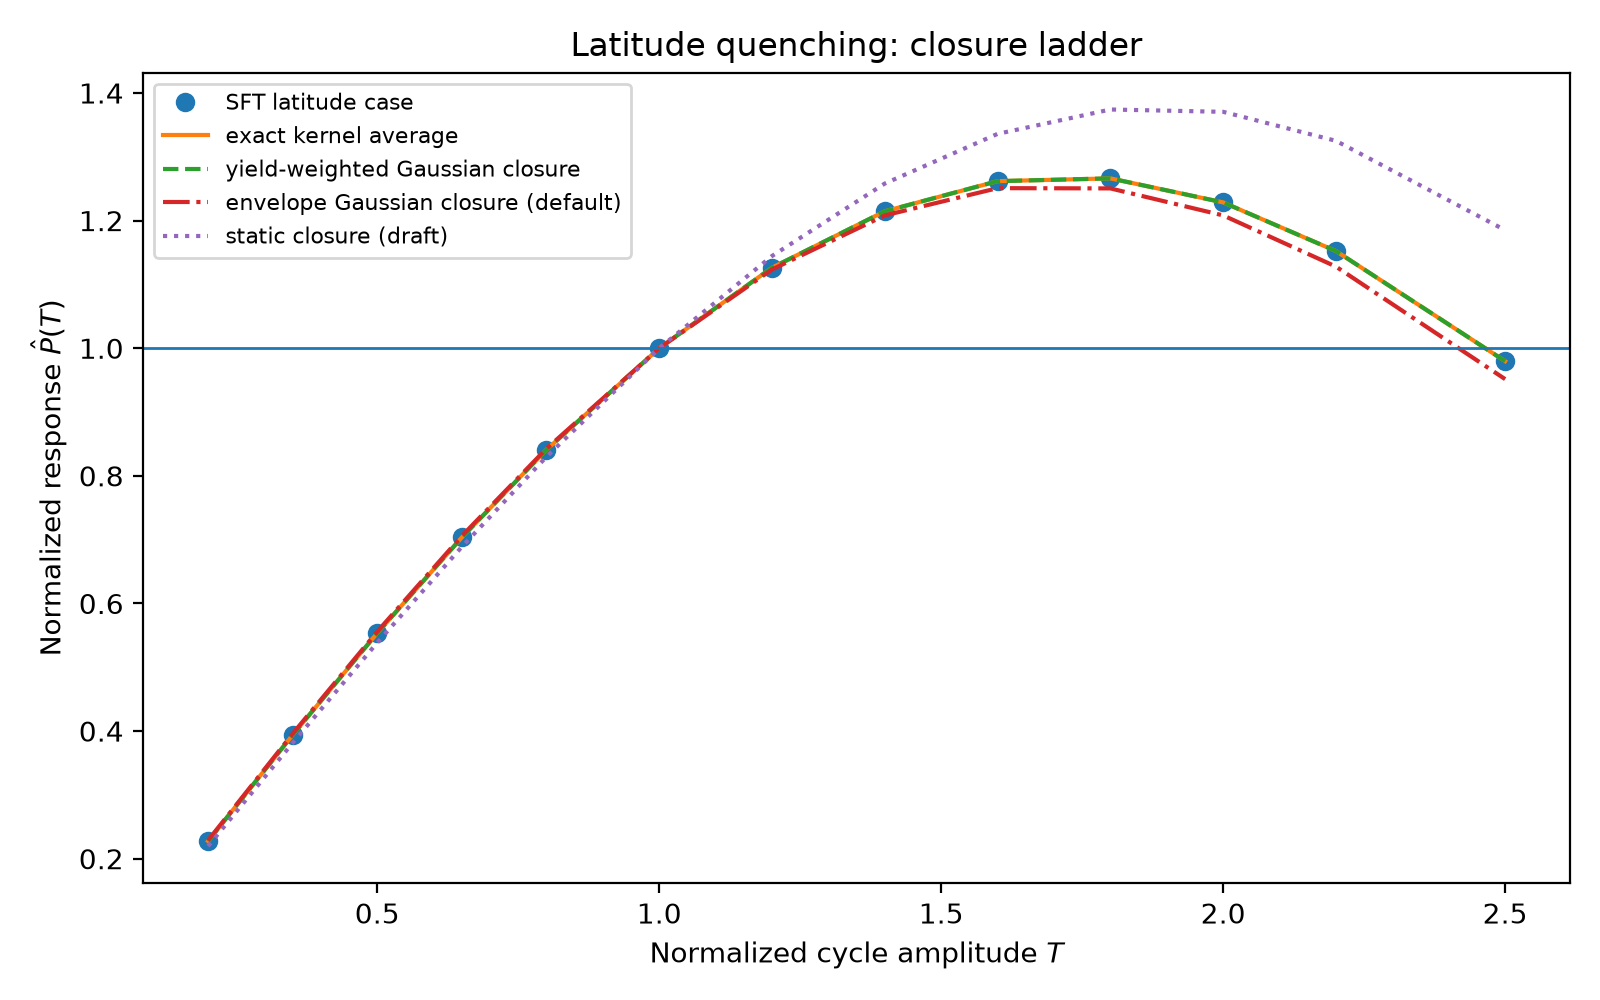
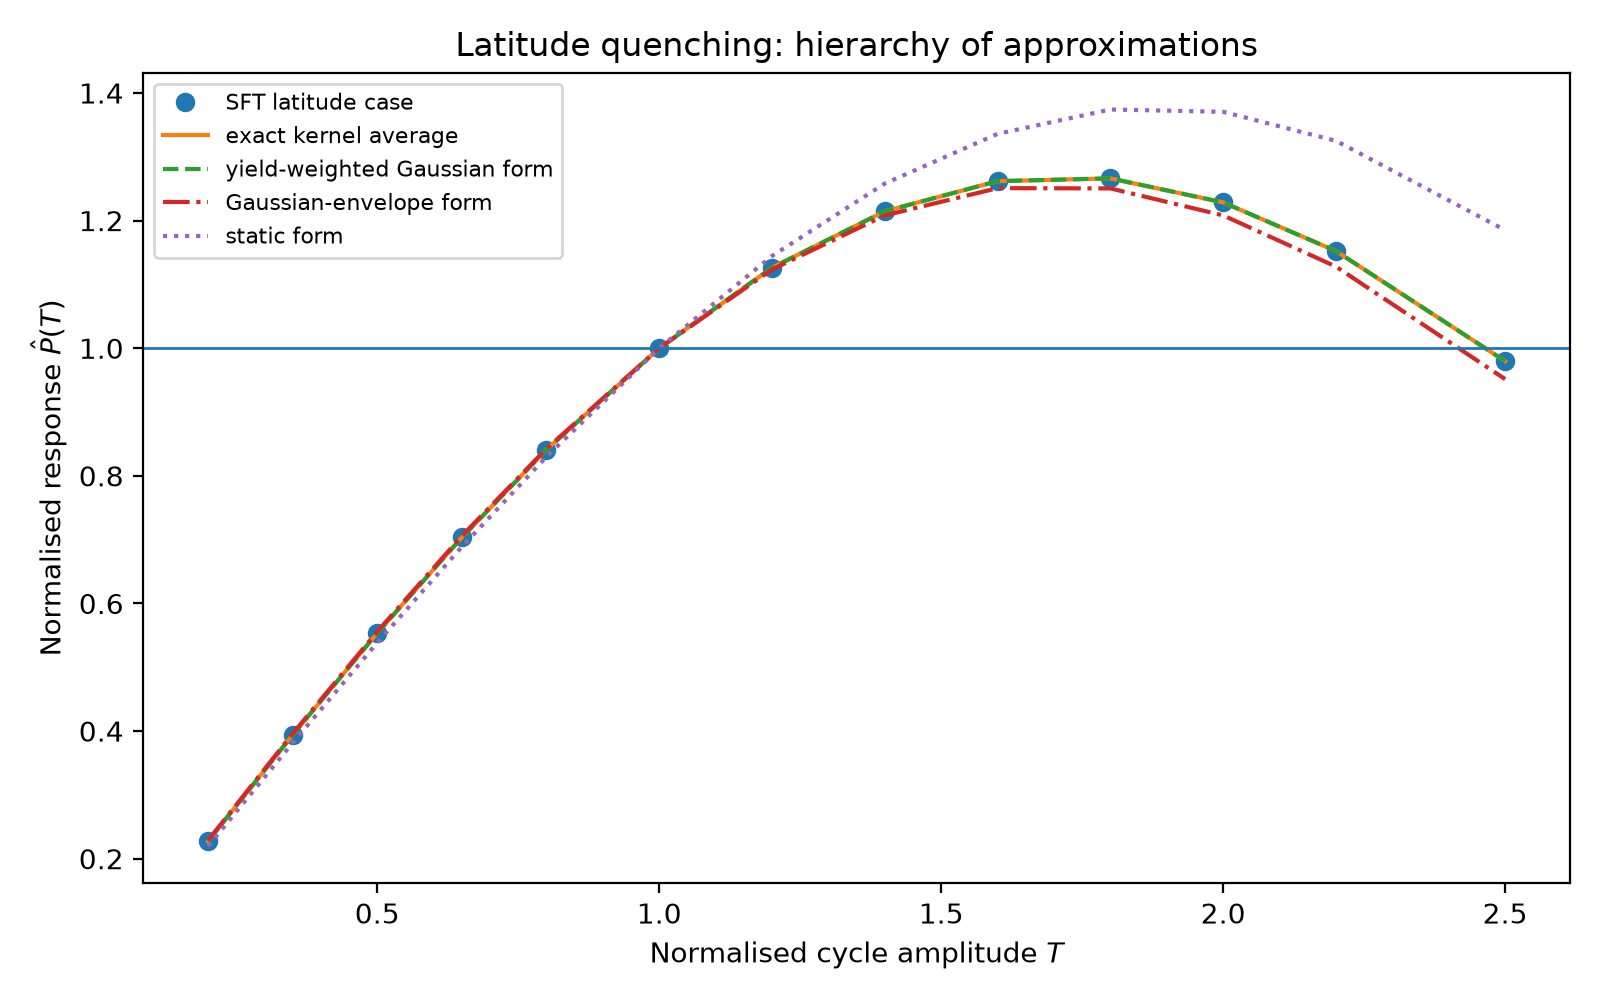
Make figure text consistent with the manuscript
An audit of the eight figures reproduced in the paper found the plotted text
lagging behind the prose in several ways.

Spelling. Nineteen axis labels and titles read "Normalized" while the paper
uses British English throughout. All display strings are now "Normalised".
The public function theory_normalized and the two output filenames keep the
original spelling: they are identifiers, not reader-visible prose, and
renaming them would break the test suite and the manuscript's figure paths.

Terminology. The word "closure" was removed from the manuscript text but
still appeared six times inside Figures 4 and 5, contradicting their own
captions. The ladder legend also carried the development artefacts "(draft)"
and "(default)", which mean nothing to a reader. Legends now read
"yield-weighted Gaussian form", "Gaussian-envelope form" and "static form",
matching the caption word for word.

Notation. Figures 5 and 8 used a bare lambda_R for both effectivity ranges,
although the paper is careful to separate the derived lambda_R^pair from the
prescribed lambda_R^cl. Both figures now carry the superscripts. Figure 8's
horizontal axis is labelled with the transport scale lambda_tr that its
caption names, instead of spelling out the square root, and the legend now
uses lambda_tr consistently rather than mixing R and R_odot.

Two smaller items: Figure 7's legend spelled "PD", an abbreviation the paper
never defines, and now reads "period doubling"; and Figure 1's ordinate is
[…]

Changed region(s): [[0.2812, 0.031, 0.7812, 0.062], [0.125, 0.155, 0.4062, 0.248]]

diff --git a/nonlinear_response_sft_experiment.py b/nonlinear_response_sft_experiment.py
@@ -40,7 +40,7 @@ This version implements the corrections suggested after the first run:
 1. The main response variable is the signed axial dipole D(T); its magnitude
    is retained only as a secondary diagnostic.
 
-2. All main response plots include normalized curves:
+2. All main response plots include normalised curves:
 
        P_hat(T) = P(T) / P(T_ref)
 
@@ -139,7 +139,7 @@ class SFTParams:
     # BMR-pair latitudinal separation proxy [deg]
     polarity_sep_deg: float = 5.0
 
-    # Source normalization. Arbitrary because this is a normalized experiment.
+    # Source normalization. Arbitrary because this is a normalised experiment.
     source_amp: float = 1.0
 
     # Nonlinear parameters for the reference run.
@@ -163,7 +163,7 @@ class SFTParams:
     # Polar cap threshold [deg]
     polar_cap_deg: float = 60.0
 
-    # Reference amplitude for normalized plots
+    # Reference amplitude for normalised plots
     T_ref: float = 1.0
 
     # Latitude-quenching implementation.
@@ -626,7 +626,7 @@ def Q_theory(T: np.ndarray | float, p: SFTParams, case: str) -> np.ndarray | flo
 
 
 def theory_normalized(T: np.ndarray, p: SFTParams, case: str) -> np.ndarray:
-    """Normalized theoretical curve T Q(T) / [T_ref Q(T_ref)]."""
+    """Normalised theoretical curve T Q(T) / [T_ref Q(T_ref)]."""
     T = np.asarray(T, dtype=float)
     tref = p.T_ref
     numerator = T * Q_theory(T, p, case)
@@ -839,8 +839,8 @@ def plot_results(results: Dict[str, Dict[str, np.ndarray]], p: SFTParams, outdir
     for case in cases:
         plt.plot(results[case]["T"], results[case]["P"], "o-", label=labels[case])
     plt.axhline(0.0, linewidth=1)
-    plt.xlabel(r"Normalized cycle amplitude $T$")
-    plt.ylabel(r"Final signed axial dipole, $P(T)$")
+    plt.xlabel(r"Normalised cycle amplitude $T$")
+    plt.ylabel(r"Final signed axial dipole, $P(T)$ [arb. units]")
     plt.title(r"Signed axial-dipole response")
     plt.legend(fontsize=8)
     plt.tight_layout()
@@ -851,7 +851,7 @@ def plot_results(results: Dict[str, Dict[str, np.ndarray]], p: SFTParams, outdir
     plt.figure(figsize=(8, 5))
     for case in cases:
         plt.plot(results[case]["T"], results[case]["P_abs"], "o-", label=labels[case])
-    plt.xlabel(r"Normalized cycle amplitude $T$")
+    plt.xlabel(r"Normalised cycle amplitude $T$")
     plt.ylabel(r"Secondary response $|D(T)|$")
     plt.title(r"Unsigned axial-dipole response")
     plt.legend(fontsize=8)
@@ -860,7 +860,7 @@ def plot_results(results: Dict[str, Dict[str, np.ndarray]], p: SFTParams, outdir
     plt.close()
 
     # --------------------------------------------------------
-    # Figure 2: normalized P_hat(T) with normalized theory
+    # Figure 2: normalised P_hat(T) with normalised theory
     # --------------------------------------------------------
     plt.figure(figsize=(8, 5))
     for case in cases:
@@ -868,9 +868,9 @@ def plot_results(results: Dict[str, Dict[str, np.ndarray]], p: SFTParams, outdir
     for case in cases:
         plt.plot(Tfine, theory_normalized(Tfine, p, case), "--", alpha=0.8, label=f"Theory: {labels[case]}")
     plt.axhline(1.0, linewidth=1)
-    plt.xlabel(r"Normalized cycle amplitude $T$")
-    plt.ylabel(r"Normalized response $\hat{P}(T)=P(T)/P(1)$")
-    plt.title(r"Normalized nonlinear response")
+    plt.xlabel(r"Normalised cycle amplitude $T$")
+    plt.ylabel(r"Normalised response $\hat{P}(T)=P(T)/P(1)$")
+    plt.title(r"Normalised nonlinear response")
     plt.legend(fontsize=7, ncol=2)
     plt.tight_layout()
     plt.savefig(os.path.join(outdir, "fig2_normalized_response_vs_theory.png"), dpi=200)
@@ -883,9 +883,9 @@ def plot_results(results: Dict[str, Dict[str, np.ndarray]], p: SFTParams, outdir
     for case in cases:
         plt.plot(results[case]["T"], results[case]["R_hat"], "o-", label=labels[case])
     plt.axhline(0.0, linewidth=1)
-    plt.xlabel(r"Normalized cycle amplitude $T$")
+    plt.xlabel(r"Normalised cycle amplitude $T$")
     plt.ylabel(r"$d\hat{P}/dT$")
-    plt.title(r"Normalized nonlinear response function")
+    plt.title(r"Normalised nonlinear response function")
     plt.legend(fontsize=8)
     plt.tight_layout()
     plt.savefig(os.path.join(outdir, "fig3_normalized_nonlinear_response.png"), dpi=200)
@@ -898,7 +898,7 @@ def plot_results(results: Dict[str, Dict[str, np.ndarray]], p: SFTParams, outdir
     for case in cases:
         plt.plot(results[case]["T"], results[case]["D"], "o-", label=labels[case])
     plt.axhline(0.0, linewidth=1)
-    plt.xlabel(r"Normalized cycle amplitude $T$")
+    plt.xlabel(r"Normalised cycle amplitude $T$")
     plt.ylabel(r"Signed axial dipole $D(T)$")
     plt.title(r"Signed axial dipole response")
     plt.legend(fontsize=8)
@@ -912,7 +912,7 @@ def plot_results(results: Dict[str, Dict[str, np.ndarray]], p: SFTParams, outdir
     plt.figure(figsize=(8, 5))
     for case in cases:
         plt.plot(results[case]["T"], results[case]["P_polar"], "o-", label=labels[case])
-    plt.xlabel(r"Normalized cycle amplitude $T$")
+    plt.xlabel(r"Normalised cycle amplitude $T$")
     plt.ylabel(r"Polar-cap proxy")
     plt.title(r"Polar-cap field response, secondary diagnostic")
     plt.legend(fontsize=8)
@@ -927,7 +927,7 @@ def plot_results(results: Dict[str, Dict[str, np.ndarray]], p: SFTParams, outdir
     for case in cases:
         q = Q_theory(Tfine, p, case)
         plt.plot(Tfine, q, label=labels[case])
-    plt.xlabel(r"Normalized cycle amplitude $T$")
+    plt.xlabel(r"Normalised cycle amplitude $T$")
     plt.ylabel(r"Nonlinear efficiency $Q(T)$")
     plt.title(r"Reduced nonlinear efficiency factors")
     plt.legend(fontsize=8)
@@ -946,7 +946,7 @@ def plot_results(results: Dict[str, Dict[str, np.ndarray]], p: SFTParams, outdir
         Deff = D0 * Q_theory(Tfine, p, case)
         plt.plot(Tfine, Deff, label=labels[case])
     plt.axhline(1.0, linewidth=1, linestyle="--")
-    plt.xlabel(r"Normalized cycle amplitude $T$")
+    plt.xlabel(r"Normalised cycle amplitude $T$")
     plt.ylabel(r"Effective gain $D_{\rm eff}=D_0Q(T)$")
     plt.title(r"Finite-amplitude saturation condition")
     plt.legend(fontsize=8)

diff --git a/physical_validation_analysis.py b/physical_validation_analysis.py
@@ -361,11 +361,11 @@ if __name__ == "__main__":
     plt.plot(T_VALUES, Q_shift, "o", markersize=6, label="SFT, physical shift mode")
     plt.plot(T_VALUES, Q_shift_exact, "-", label="exact kernel prediction")
     plt.plot(T_VALUES, q_derived, "--",
-             label=fr"derived Gaussian closure ($\lambda_R = {lamR_pair:.1f}^\circ$)")
+             label=fr"derived Gaussian form ($\lambda_R^{{\rm pair}} = {lamR_pair:.1f}^\circ$)")
     plt.plot(T_VALUES, q_prescribed, ":",
-             label=fr"prescribed closure ($\lambda_R = {p.lambda_R_deg:.0f}^\circ$)")
+             label=fr"prescribed form ($\lambda_R^{{\rm cl}} = {p.lambda_R_deg:.0f}^\circ$)")
     plt.axhline(0.0, linewidth=1)
-    plt.xlabel(r"Normalized cycle amplitude $T$")
+    plt.xlabel(r"Normalised cycle amplitude $T$")
     plt.ylabel(r"Latitude-quenching efficiency $Q(T) = D/(aT)$")
     plt.title("Physical (shift-mode) latitude quenching vs reduced theory")
     plt.legend(fontsize=8)
@@ -377,12 +377,12 @@ if __name__ == "__main__":
     plt.figure(figsize=(8, 5))
     plt.plot(T_VALUES, Phat_tilt, "o", markersize=6, label="SFT, tilt case")
     plt.plot(T_VALUES, Phat_tilt_exact, "-", label="exact kernel prediction")
-    plt.plot(T_VALUES, Phat_naive, ":", label=r"naive closure $Q_{\rm TQ}=f_{\rm TQ}$")
-    plt.plot(T_VALUES, Phat_improved, "--", label="improved closure (cubic yield)")
+    plt.plot(T_VALUES, Phat_naive, ":", label=r"leading-order form $Q_{\rm TQ}=f_{\rm TQ}$")
+    plt.plot(T_VALUES, Phat_improved, "--", label="improved form (cubic yield)")
     plt.axhline(1.0, linewidth=1)
-    plt.xlabel(r"Normalized cycle amplitude $T$")
-    plt.ylabel(r"Normalized response $\hat{P}(T)$")
-    plt.title("Tilt quenching: exact kernel prediction and closures")
+    plt.xlabel(r"Normalised cycle amplitude $T$")
+    plt.ylabel(r"Normalised response $\hat{P}(T)$")
+    plt.title("Tilt quenching: exact kernel prediction and reduced forms")
     plt.legend(fontsize=8)
     plt.tight_layout()
     plt.savefig(os.path.join(OUTDIR, "figV3_tilt_exact.png"), dpi=200)
@@ -397,7 +397,7 @@ if __name__ == "__main__":
     plt.plot(T_VALUES, T_VALUES / (1.0 + b_lead5 * T_VALUES**2), ":",
              label=fr"rational form, leading-order fit $b_{{\rm IQ}} = {b_lead5:.2f}$")
     plt.axhline(0.0, linewidth=1)
-    plt.xlabel(r"Normalized cycle amplitude $T$")
+    plt.xlabel(r"Normalised cycle amplitude $T$")
     plt.ylabel(r"$T\,Q_{\rm IQ}(T)$ (dipole in units of $a$)")
     plt.title("Physical converging inflows vs the rational efficiency factor")
     plt.legend(fontsize=8)
@@ -411,7 +411,7 @@ if __name__ == "__main__":
     plt.plot(T_VALUES, b_eff5, "s-", label=r"5 m s$^{-1}$")
     plt.axhline(0.2, linestyle="--", linewidth=1.2,
                 label=r"calibrated $b_{\rm IQ} = 0.2$ (Talafha et al. 2025)")
-    plt.xlabel(r"Normalized cycle amplitude $T$")
+    plt.xlabel(r"Normalised cycle amplitude $T$")
     plt.ylabel(r"$b_{\rm eff}(T) = (1/Q_{\rm IQ} - 1)/T^2$")
     plt.title("Constancy test of the rational inflow factor")
     plt.legend(fontsize=8)

diff --git a/parameter_space_analysis.py b/parameter_space_analysis.py
@@ -226,11 +226,11 @@ if __name__ == "__main__":
              label="measured (adjoint kernel)")
     xs = np.linspace(0.0, np.nanmax(lamR_est) * 1.05, 200)
     plt.plot(xs, np.sqrt(C2 * xs**2 + w02), "--",
-             label=(fr"quadrature law: $\lambda_R^2 = ({C_quad:.2f})^2\,\eta/(2u_0R)"
+             label=(fr"quadrature law: $(\lambda_R^{{\rm pair}})^2 = ({C_quad:.2f})^2\,\lambda_{{\rm tr}}^2"
                     fr" + ({w0_quad:.1f}^\circ)^2$"))
     plt.plot(xs, xs, ":", linewidth=1, color="0.6", label="one-to-one (pure transport)")
-    plt.xlabel(r"$\sqrt{\eta/(2u_0R_\odot)}$ [deg]")
-    plt.ylabel(r"Measured $\lambda_R$ [deg]")
+    plt.xlabel(r"Transport scale $\lambda_{\rm tr}=\sqrt{\eta/(2u_0R_\odot)}$ [deg]")
+    plt.ylabel(r"Measured $\lambda_R^{\rm pair}$ [deg]")
     plt.title("Scaling collapse of the effectivity range")
     plt.legend(fontsize=8)
     plt.tight_layout()
@@ -244,7 +244,7 @@ if __name__ == "__main__":
     plt.axhline(100.0 * scatter_quad, linestyle=":", linewidth=1, color="0.5",
                 label=fr"$\pm$ standard deviation ({100*scatter_quad:.1f}\%)")
     plt.axhline(-100.0 * scatter_quad, linestyle=":", linewidth=1, color="0.5")
-    plt.xlabel(r"Measured $\lambda_R$ [deg]")
+    plt.xlabel(r"Measured $\lambda_R^{\rm pair}$ [deg]")
     plt.ylabel("Relative residual of the quadrature law [\\%]")
     plt.title("Residuals of the effectivity-range scaling law")
     plt.legend(fontsize=8)

diff --git a/mathematical_framework_analysis.py b/mathematical_framework_analysis.py
@@ -392,13 +392,13 @@ def make_figures(p: nre.SFTParams, grid, K, w, S, omega, ladder, T_sft, Phat_sft
     plt.figure(figsize=(8, 5))
     plt.plot(T_sft, Phat_sft, "o", markersize=6, label="SFT latitude case")
     plt.plot(T_sft, ladder["exact"], "-", label="exact kernel average")
-    plt.plot(T_sft, ladder["yield_weighted"], "--", label="yield-weighted Gaussian closure")
-    plt.plot(T_sft, ladder["envelope"], "-.", label="envelope Gaussian closure (default)")
-    plt.plot(T_sft, ladder["static"], ":", label="static closure (draft)")
+    plt.plot(T_sft, ladder["yield_weighted"], "--", label="yield-weighted Gaussian form")
+    plt.plot(T_sft, ladder["envelope"], "-.", label="Gaussian-envelope form")
+    plt.plot(T_sft, ladder["static"], ":", label="static form")
     plt.axhline(1.0, linewidth=1)
-    plt.xlabel(r"Normalized cycle amplitude $T$")
-    plt.ylabel(r"Normalized response $\hat{P}(T)$")
-    plt.title("Latitude quenching: closure ladder")
+    plt.xlabel(r"Normalised cycle amplitude $T$")
+    plt.ylabel(r"Normalised response $\hat{P}(T)$")
+    plt.title("Latitude quenching: hierarchy of approximations")
     plt.legend(fontsize=8)
     plt.tight_layout()
     plt.savefig(os.path.join(OUTDIR, "figF4_closure_ladder.png"), dpi=200)

diff --git a/multicycle_feedback_analysis.py b/multicycle_feedback_analysis.py
@@ -397,9 +397,9 @@ if __name__ == "__main__":
     plt.plot(mapB_x, mapB_y, ",", color="0.6", label="memory-corrected map attractor")
     plt.plot(sft_x, sft_y, "o", markersize=3, label="multi-cycle SFT attractor")
     plt.axvline(D0_pd_mem, linestyle="--", linewidth=1.2, color="C3",
-                label=fr"analytic PD (memory), $D_0 = {D0_pd_mem:.2f}$")
+                label=fr"analytic period doubling (memory), $D_0 = {D0_pd_mem:.2f}$")
     plt.axvline(D0_pd_nomem, linestyle=":", linewidth=1.2, color="C2",
-                label=fr"analytic PD (memoryless), $D_0 = {D0_pd_nomem:.2f}$")
+                label=fr"analytic period doubling (memoryless), $D_0 = {D0_pd_nomem:.2f}$")
     plt.xlabel(r"Linear gain $D_0 = k\,a$")
     plt.ylabel(r"Attractor of $T_n$")
     plt.title("Multi-cycle SFT vs reduced maps: bifurcation structure")
